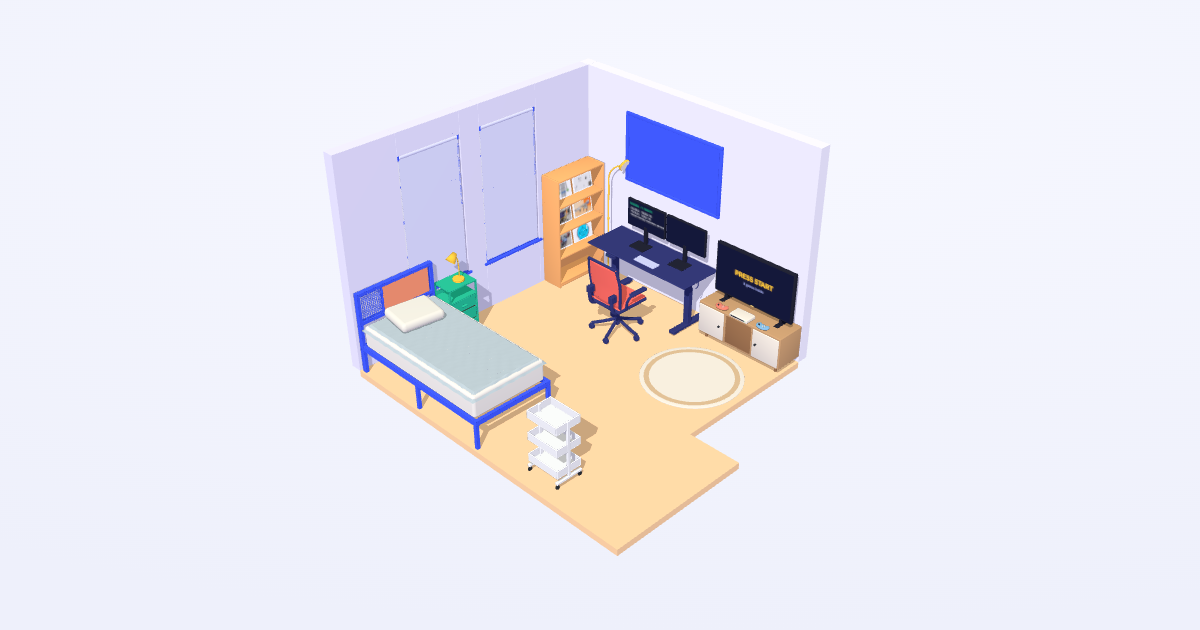
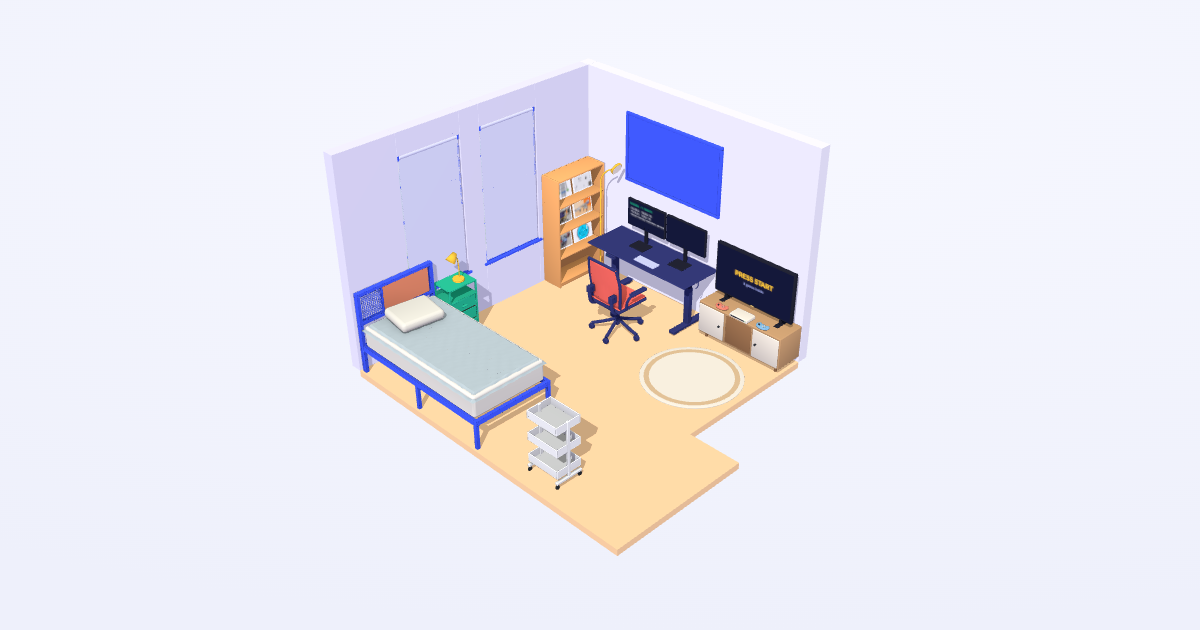
Blinds roll up and down on click; re-render posters and og image
The new window export has the blind cloth and bottom bar as their own
nodes (pivot on the roller), so the click-to-roll code now works.
Posters and public/og.png re-rendered with baked AO.

diff --git a/redesign/PLAN.md b/redesign/PLAN.md
@@ -135,7 +135,7 @@ Asset rules and checklist in [BLENDER_TODO.md](BLENDER_TODO.md). Modeling by me;
 - [x] Hover bounce on interactive objects in the full-screen room (spring with a little overshoot); hovering a label bounces its object
 - [ ] Pin → pinboard card highlight
 - [x] Sky outside the windows (day/night, cross-faded with the lights)
-- [ ] Blinds roll up/down on click (code done; waits for `blind_cloth`/`blind_bar` nodes in asset_window)
+- [x] Blinds roll up/down on click in the full-screen room (`blind_cloth` / `blind_bar` nodes in asset_window)
 - [x] Full-screen room mode: orbit, labels (Research / Projects / Games / Playground), click label or object → back to that section; Esc, "Back to page" and the back button close it (`#room` in URL). Desktop: "Enter my room" button or click the room; mobile: "Explore my room in 3D" card (3D loads only then)
 - [x] Smooth open/close of the full-screen room: the frame morphs between the panel (mobile: the "Explore my room" card, or the middle of the screen) and the window while the camera moves on the same ease-out curve; 560 ms open, 460 ms close; off with reduced motion
 - [x] Dynamic textures from content (monitors, TV, game cases, project frames, pinboard cards from `playground.yaml`)
